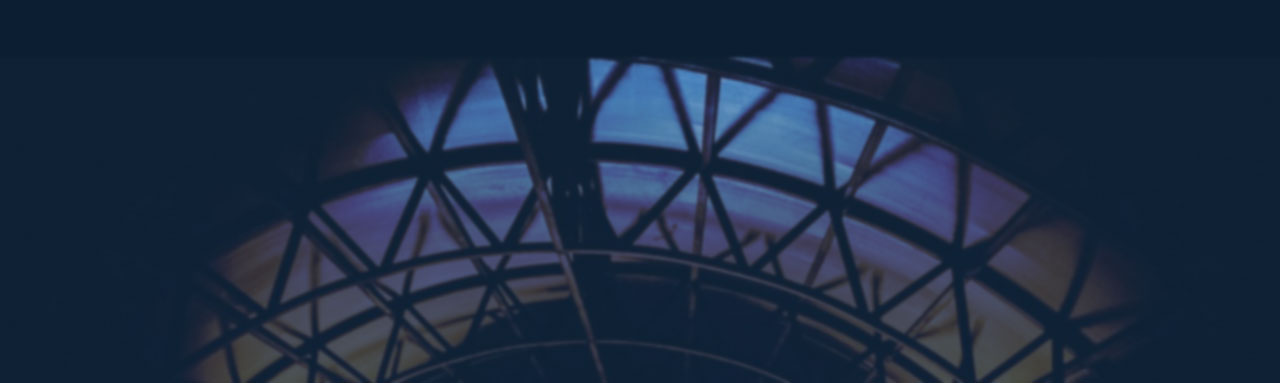
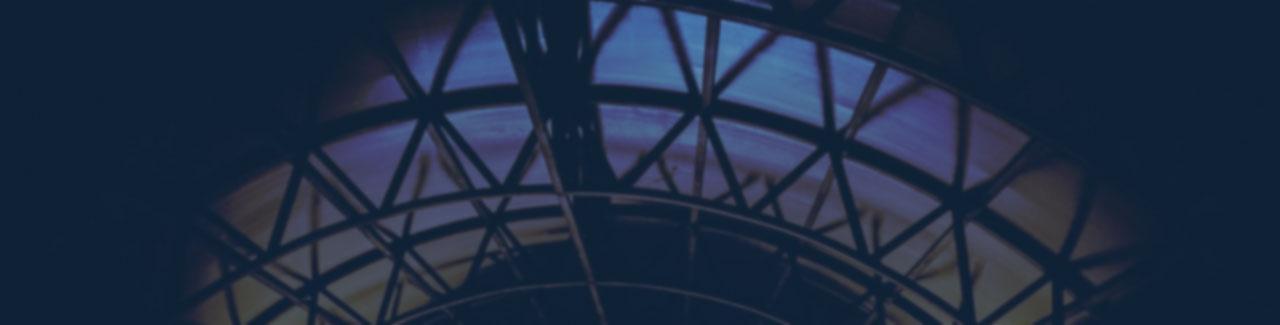
updated

diff --git a/css/codeception.css b/css/codeception.css
@@ -240,14 +240,13 @@ ul.navbar-nav {
 
 #home-hero{
 	width:100%;
-	height:490px;
+	height:600px;
 	left:0px;
 	top:0px;
 	position:absolute;
-	background:#042943;
-	background-image:url(../images/home-bg.jpg);
+	background:#042943 no-repeat center center;
+	background-image: url(../images/home-bg.jpg);
 	background-size:cover;
-	background-position-y:6	0px;
 	display:block;
 	text-align:center;
 	padding-top:63px;
